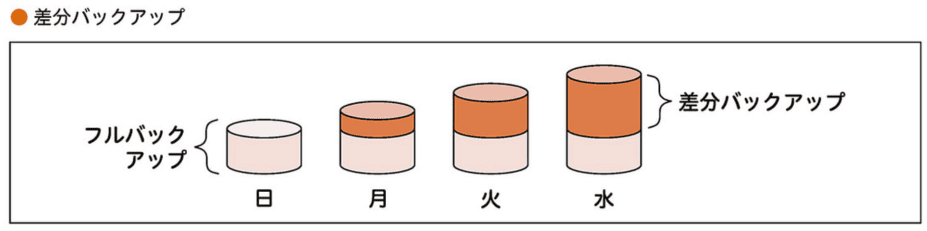
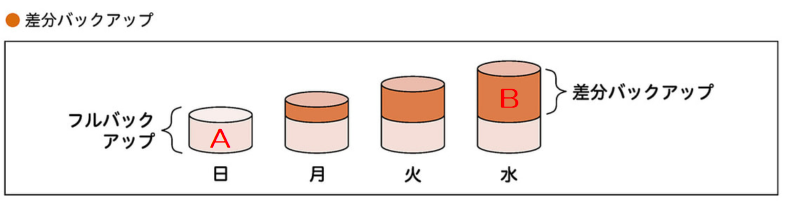
fe03更新

diff --git a/fe03.html b/fe03.html
@@ -122,12 +122,11 @@
                 category: "ソフトウェア",
                 question: "フルバックアップ以降、新たに追加されたデータのみをバックアップする方式",
                 image: "images/image037.png", 
-                choices: ["アーカイブ", "差分バックアップ", "増分バックアップ", "フルバックアップ"],
+                choices: ["アーカイブ", "差分バックアップ", "フルバックアップ", "増分バックアップ"],
                 correctIndex: 1,
-                explanation: "「差分バックアップ」とは、フルバックアップを取ったあと追加されたデータのみをバックアップする方式です。\n\n" + 
+                explanation: "「差分バックアップ」とは、フルバックアップ（全データのバックアップ）のあとに追加されたデータのみをバックアップする方式です。\n\n" + 
                     "バックアップするのはフルバックアップからの差分だけなので、バックアップにかかる時間は短いです。\n\n" +
-                    "反面、復旧にはフルバックアップと差分バックアップの2つのデータが必要になるので、復旧作業が煩雑になります。\n" + 
-                    "例えば、水曜日にデータベースを復旧する場合は、「日曜日のフルバックアップ」と「水曜日の差分バックアップ」の2つのデータを使って、システムを元の状態に戻します。",
+                    "反面、復旧にはフルバックアップと差分バックアップの2つのデータが必要になるので、復旧作業が煩雑になります。（下図AとB）\n",
                 explanationImage: "images/image036.png",
                 explanationUrl: "https://wa3.i-3-i.info/word11652.html"
             },
@@ -137,12 +136,11 @@
                 category: "ソフトウェア",
                 question: "前回のバックアップから新たに追加されたデータのみをバックアップする方式。",
                 image: "images/image038.png", 
-                choices: ["アーカイブ", "差分バックアップ", "増分バックアップ", "フルバックアップ"],
-                correctIndex: 2,
+                choices: ["アーカイブ", "差分バックアップ", "フルバックアップ", "増分バックアップ"],
+                correctIndex: 3,
                 explanation: "「増分バックアップ」とは、前回のバックアップから新たに追加されたデータのみをバックアップする方式です。\n\n" +
                     "バックアップするのは前回のバックアップからの追加分だけなので、バックアップにかかる時間は差分バックアップよりもさらに短いです。\n\n" +
-                    "反面、バックアップのデータが複数になるので、復旧作業が差分バックアップよりもさらに煩雑になります。\n" +
-                    "例えば、水曜日にデータベースの復旧を行う場合は、「日曜日のフルバックアップ」と「月」「火」「水」の増分バックアップの4つのデータを使って、システムを元の状態に戻さなければなりません。",
+                    "反面、バックアップのデータが複数になるので、復旧作業が差分バックアップよりもさらに煩雑になります。（下図 A+B+C+D）\n",
                 explanationImage: "images/image039.png",
                 explanationUrl: "https://wa3.i-3-i.info/word11651.html"
             },
@@ -170,17 +168,6 @@
                 explanationImage: "https://www.qbook.jp/column/assets_c/2026/11/73b10dd0ed28706eebe4baa27a005eca-thumb-autoxauto-q80.webp",
                 explanationUrl: "https://www.qbook.jp/column/2008.html"
             },
-            // Eclipse
-            {
-                category: "ソフトウェア",
-                question: "オープンソースの統合開発環境の一つで、Javaなどのアプリケーション開発のためのツールが一つにまとまったソフトウェア。",
-                image: "", 
-                choices: ["Eclipse", "Perl", "PHP", "Ruby"],
-                correctIndex: 0,
-                explanation: "「Eclipse」とは、Javaなどが開発できるオープンソースの統合開発環境です。\n\n統合開発環境（IDE:Integrated Development Environment）とは、テキストエディタやコンパイラ、テストツールなど、開発に必要なツールが1つにまとまったソフトウェアです。",
-                explanationImage: "https://ai-kenkyujo.com/wp-content/uploads/2025/03/java-eclipse10.png.webp",
-                explanationUrl: ""
-            },
             // フラッシュメモリ
             {
                 category: "ハードウェア",
@@ -188,7 +175,7 @@
                 image: "", 
                 choices: ["DRAM", "SRAM", "キャッシュメモリ", "フラッシュメモリ"],
                 correctIndex: 3,
-                explanation: "「フラッシュメモリ」とは、電気的にデータの消去や書き換えができるメモリです。\n\nUSBメモリやSSDに使われています。\n\nフラッシュメモリでは、データの消去は「ブロック」と呼ばれる、ビットをひとまとめにした単位で行います。",
+                explanation: "「フラッシュメモリ」とは、電気的にデータの消去や書き換えができるメモリです。USBメモリやSSDに使われています。\n\nフラッシュメモリでは、データの消去は「ブロック」と呼ばれる、ビットをひとまとめにした単位で行います。\n\nフラッシュメモリ↓",
                 explanationImage: "https://semi-journal.jp/wp-content/uploads/2022/02/flash-memory-1-768x215.jpg",
                 explanationUrl: "https://wa3.i-3-i.info/word11054.html"
             },
@@ -215,6 +202,10 @@
                 explanationUrl: "https://wa3.i-3-i.info/word11377.html"
             },
 
+            //-------------------------------------
+            //    マルチメディア
+            //-------------------------------------
+
             // アウトラインフォント
             {
                 category: "マルチメディア",
@@ -222,7 +213,7 @@
                 image: "", 
                 choices: ["アウトラインフォント", "等幅フォント", "ビットマップフォント", "プロポーショナルフォント"],
                 correctIndex: 0,
-                explanation: "「アウトラインフォント」とは、どんなに拡大·縮小しても、なめらかな曲線で表示されるフォントです。\n\n文字の形状を「座標値や方程式などのデータ」として保持しており、文字を拡大·縮小するたびに形状を再計算するので、ギザギザが目立つようなことはありません。\n\n一方、「ビットマップフォント」は、ドットの集まりで文字を表現しているため、拡大するとギザギザが目立ちます。",
+                explanation: "「アウトラインフォント」とは、どんなに拡大·縮小しても、なめらかな曲線で表示されるフォントです。\n\n文字の形状を座標や計算式として保持しており、文字を拡大·縮小するたびに形状を再計算するので、ギザギザが目立つようなことはありません。\n\n一方、「ビットマップフォント」は、ドットの集まりで文字を表現しているため、拡大するとギザギザが目立ちます。",
                 explanationImage: "images/image040.png",
                 explanationUrl: "https://wa3.i-3-i.info/word13827.html"
             },
@@ -245,7 +236,7 @@
                 image: "images/image042.png", 
                 choices: ["アンチエイリアシング", "シェーディング", "テクスチャマッピング", "バンプマッピング"],
                 correctIndex: 0,
-                explanation: "「アンチエイリアシング」（Anti-Aliasing）とは、画像処理の際に生じる線や輪郭のギザギザを目立たなくする手法です。",
+                explanation: "「アンチエイリアシング」（Anti-Aliasing）とは、輪郭のギザギザを目立たなくする手法です。",
                 explanationImage: "https://www.adobe.com/jp/creativecloud/roc/blog/photography/media_1bb1b34bbe67f42a4d676435b7166e95a3db397f7.jpg",
                 explanationUrl: "https://wa3.i-3-i.info/word111788.html"
             },
@@ -268,32 +259,37 @@
                 image: "", 
                 choices: ["H.264/MPEG-4 AVC", "JPEG", "MIDI", "MP3"],
                 correctIndex: 0,
-                explanation: "「H.264/MPEG-4 AVC」とは、動画を圧縮する技術です。\n\n動画の中で「変化があった部分(差分)」だけを保存することで、動画のファイルサイズを小さくします。\n\n現在は、ワンセグ放送、Blu-ray Disc、YouTubeなど、さまざまなメディアで使われています。",
-                explanationImage: "https://askmedia.co.jp/blog/wp-content/uploads/2026/11/h264_codec_guide.jpg",
+                explanation: "「H.264/MPEG-4 AVC」とは、動画を圧縮する技術です。\n\n動画の中で「変化があった部分」（差分）だけを保存することで、動画のファイルサイズを小さくします。\n\n現在は、ワンセグ放送、Blu-ray Disc、YouTubeなど、さまざまなメディアで使われています。",
+                explanationImage: "https://cdn-ak.f.st-hatena.com/images/fotolife/n/networkcamera/20181212/20181212235854.jpg",
                 explanationUrl: "https://askmedia.co.jp/blog/what-is-h264-video-codec-guide/"
             },
+
+            //-------------------------------------
+            //    データベース
+            //-------------------------------------
+
             // 関係データベース
-            {
-                category: "データベース",
-                question: "データを行と列の2次元の表形式で表すデータベース",
-                image: "", 
-                choices: ["オブジェクト型データベース", "階層型データベース", "関係データベース", "ネットワーク型データベース"],
-                correctIndex: 2,
-                explanation: "「関係データベース」とは、SQLの授業でみなさんがいつも使っている表形式のデータベースです。リレーショナルデータベースとも言います。",
-                explanationImage: "images/image044.png",
-                explanationUrl: "https://wa3.i-3-i.info/word15439.html"
-            },
+            // {
+            //     category: "データベース",
+            //     question: "データを行と列の2次元の表形式で表すデータベース",
+            //     image: "", 
+            //     choices: ["オブジェクト型データベース", "階層型データベース", "関係データベース", "ネットワーク型データベース"],
+            //     correctIndex: 2,
+            //     explanation: "「関係データベース」とは、SQLの授業でみなさんがいつも使っている表形式のデータベースです。リレーショナルデータベースとも言います。",
+            //     explanationImage: "images/image044.png",
+            //     explanationUrl: "https://wa3.i-3-i.info/word15439.html"
+            // },
             // 主キー
-            {
-                category: "データベース",
-                question: "リレーショナルデータベースの表において、テーブルの中のレコードを一意に識別するための列",
-                image: "", 
-                choices: ["インデックス", "外部キー", "候補キー", "主キー"],
-                correctIndex: 3,
-                explanation: "「主キー」とは、テーブルの中から特定のレコードを識別するための列です。例えば「学籍番号」や「社員ID」などです。\n\n表のデータを確実に一つに特定するため、主キーになるには次の2つの条件を満たす必要があります。\n\n(1) 重複する値がないこと（一意性）\n(2) データが空（NULL）でないこと（NOT NULL制約）」",
-                explanationImage: "https://medium-company.com/wp-content/uploads/2021/01/primarykey1.png",
-                explanationUrl: "https://wa3.i-3-i.info/word1991.html"
-            },
+            // {
+            //     category: "データベース",
+            //     question: "リレーショナルデータベースの表において、テーブルの中のレコードを一意に識別するための列",
+            //     image: "", 
+            //     choices: ["インデックス", "外部キー", "候補キー", "主キー"],
+            //     correctIndex: 3,
+            //     explanation: "「主キー」とは、テーブルの中から特定のレコードを識別するための列です。例えば「学籍番号」や「社員ID」などです。\n\n表のデータを確実に一つに特定するため、主キーになるには次の2つの条件を満たす必要があります。\n\n(1) 重複する値がないこと（一意性）\n(2) データが空（NULL）でないこと（NOT NULL制約）",
+            //     explanationImage: "https://medium-company.com/wp-content/uploads/2021/01/primarykey1.png",
+            //     explanationUrl: "https://wa3.i-3-i.info/word1991.html"
+            // },
 
             // 外部キー
             {
@@ -324,7 +320,7 @@
                 image: "", 
                 choices: ["結合", "射影", "選択", "和"],
                 correctIndex: 1,
-                explanation: "「射影」とは、表から特定の列のみ取り出すことです。\n\n一方、特定の行（レコード）を取り出す操作を「選択」といいます。",
+                explanation: "「射影」とは、表から特定の「列」のみ取り出すことです。\n\n一方、特定の「行」（レコード）を取り出す操作は「選択」といいます。\n「射影」と「選択」は区別できるようにしておきましょう。",
                 explanationImage: "images/image049.png",
                 explanationUrl: "https://wa3.i-3-i.info/word11647.html"
             },
@@ -339,7 +335,211 @@
                 explanationImage: "images/image050.png",
                 explanationUrl: "https://wa3.i-3-i.info/word11906.html"
             },
+            // 原子性
+            {
+                category: "データベース",
+                question: "DBMSのACID特性の一つで、トランザクション内の処理が「すべて実行される」か、「すべてが取り消される」かのどちらかの結果になること",
+                image: "", 
+                choices: ["原子性(Atomicity)", "一貫性(Consistency)", "独立性(Isolation)", "耐久性(Durability)"],
+                correctIndex: 0,
+                explanation: "「原子性」とは、トランザクション内の処理が「すべて実行される」か、「すべてが取り消される」かのどちらかの結果になることです。つまり、中途半端な状態にならないようにします。",
+                explanationImage: "images/image051.png",
+                explanationUrl: "https://wa3.i-3-i.info/word110351.html"
+            },
 
+            // ログファイル
+            {
+                category: "データベース",
+                question: "データベースの更新前や更新後の値を書き出して、データベースの更新記録として保存するファイル",
+                image: "", 
+                choices: ["ダンプファイル", "チェックポイントファイル", "バックアップファイル", "ログファイル"],
+                correctIndex: 3,
+                explanation: "「ログファイル」とは、データベースを更新する前後の状態を保存したファイルです。\n\nDBを更新する前の状態を保存したログを「更新前ログファイル」、更新した後の状態を保存したログを「更新後ログファイル」といいます。\n\nデータベースに障害が発生したときは、このログファイルを使ってデータベースを復旧させることができます。",
+                explanationImage: "images/image052.png",
+                explanationUrl: ""
+            },
+            // ロールバック
+            {
+                category: "ネットワーク",
+                question: "データベース更新の途中で障害が発生した際に、更新前ログファイルを使用してデータベースを更新前の状態に戻すこと。",
+                image: "", 
+                choices: ["コミット", "チェックポイント", "ロールバック", "ロールフォワード"],
+                correctIndex: 2,
+                explanation: "「ロールバック」とは、データベースを更新している途中でエラーが発生した際に、データベースを更新前の状態に戻すことです。\n\nロールバックでは、障害が発生したら更新「前」ログファイルを使ってデータベースを復元します。",
+                explanationImage: "images/image063.png",
+                explanationUrl: "https://wa3.i-3-i.info/word143.html"
+            },
+            // 排他制御
+            {
+                category: "データベース",
+                question: "複数の人が同じデータを同時に更新しようとした場合に、データベースをロックするなどしてデータに矛盾が生じないようにする機能",
+                image: "", 
+                choices: ["再編成", "正規化", "整合性制約", "排他制御"],
+                correctIndex: 3,
+                explanation: "「排他制御」とは、複数の人が同じデータを同時に更新しようとした場合に、データに不整合が起きるのを防ぐ機能です。\n\n例えばデータにロックをかけて、同時に一人しか書き込めないようにします。",
+                explanationImage: "https://medium-company.com/wp-content/uploads/2021/03/lock1.png",
+                explanationUrl: "https://wa3.i-3-i.info/word19090.html"
+            },
+
+            //-------------------------------------
+            //    ネットワーク
+            //-------------------------------------
+
+            // CRC方式
+            {
+                category: "ネットワーク",
+                question: "データをあらかじめ決められた生成多項式でわり算し、その余りをチェックデータとしてデータに付け加えて送ることで、ビット誤りを検出する方式",
+                image: "", 
+                choices: ["CRC方式", "垂直パリティチェック方式", "水平パリティチェック方式", "ハミング符号方式"],
+                correctIndex: 0,
+                explanation: "「CRC方式」とは、データをあらかじめ決められた生成多項式でわり算し、その余りをチェックデータとしてデータに付け加えて送る方式です。受信側でも同じ計算をして、計算結果がチェックデータと同じになれば誤りがないことになります。\n\n" + 
+                "少し難しい説明ですが、安心してください。\n基本情報技術者試験では、上記の「多項式でわり算し、その余りをチェックデータとして付け加える」という、CRC方式の特徴しか出題されません。具体的な計算方法は出題されません。\n\n" + 
+                "「多項式」や「生成多項式」というキーワードが出たら「CRC方式!」が答えです。",
+                explanationImage: "https://utataneblog760.com/wp-content/uploads/2026/08/556-1.jpg",
+                explanationUrl: "https://utataneblog760.com/556crc/"
+            },
+
+            // ポート番号
+            {
+                category: "ネットワーク",
+                question: "ネットワークにおいて、通信相手のアプリケーションを識別するための番号",
+                image: "", 
+                choices: ["MACアドレス", "シーケンス番号", "プロトコル番号", "ポート番号"],
+                correctIndex: 3,
+                explanation: "「ポート番号」とは、通信相手のアプリケーションを識別するための番号です。アプリケーションとは、具体的には「ブラウザ」や「メールソフト」などです。\n\nIPアドレスはコンピュータを識別する番号ですが、コンピュータを特定しただけでは、コンピュータ上で動いているどのアプリケーションソフトウェアと通信すればよいか分かりません。例えば、ブラウザとメールソフトを同時に起動している場合、IPアドレスだけではどちらのアプリケーションソフトウェアと通信したらよいか判断できません。\n\nそこで必要になるのがポート番号です。\n\nそれぞれのアプリケーションソフトウェアに個別に割り当てられているポート番号を使って、通信相手となるアプリケーションソフトウェアを特定します。\n\nちなみに、ポート番号「80番はWebの通信」「25番はメール送信」のように代表的な番号は決まっています。",
+                explanationImage: "images/image053.png",
+                explanationUrl: "https://wa3.i-3-i.info/word171.html"
+            },
+            // MACアドレスの構成
+            {
+                category: "ネットワーク",
+                question: "MACアドレスの構成として正しいものはどれか。",
+                image: "", 
+                choices: ["エリアID　+　IPアドレス", 
+                          "エリアID　+　固有製造番号", 
+                          "ベンダID　+　IPアドレス", 
+                          "ベンダID　+　固有製造番号"],
+                correctIndex: 3,
+                explanation: "「MACアドレス」は、48ビットの番号で、前半24ビットが「ベンダID」、後半24ビットが「固有製造番号」になります。\n\nちなみに、MACアドレスとは、ネットワーク機器ごとに割り当てられている固有の番号です。\n\nIPアドレスは「最終的な通信相手」を特定する番号なのに対して、MACアドレスは「次の通信相手」を特定する番号です。\n\n仮にネットワークを電車の路線と考えるならば、MACアドレスは乗り換え駅の名前、IPアドレスは最終目的地の駅の名前です。\n\n",
+                explanationImage: "images/image054.png",
+                explanationUrl: "https://medium-company.com/mac%E3%82%A2%E3%83%89%E3%83%AC%E3%82%B9%E3%81%A8%E3%81%AF/"
+            },
+            // IPv4, IPv6
+            {
+                category: "ネットワーク",
+                question: "IPアドレスのIPv4とIPv6はそれぞれ何ビットか",
+                image: "", 
+                choices: ["IPv4=32ビット、IPv6=48ビット", 
+                          "IPv4=32ビット、IPv6=128ビット", 
+                          "IPv4=48ビット、IPv6=48ビット", 
+                          "IPv4=48ビット、IPv6=128ビット"],
+                correctIndex: 1,
+                explanation: "IPアドレスのバージョン4であるIPv4は32ビット、IPv6は128ビットです。\n\nIPv4は32ビットなので43億個（2の32乗）のIPアドレスが設定できますが、世界の人口よりも少ないため足りなくなってしまいました。\nそこで「IPアドレスの枯渇問題」を解決するために登場したのがIPv6です。\n\nIPv6は128ビットで構成されているので、IPアドレスの総数は340兆の1兆倍の1兆倍（2の128乗）になります。この数は、地球上に転がっている石よりも多く、ほぼ無限大といえます。",
+                explanationImage: "images/image064.png",
+                explanationUrl: "https://wa3.i-3-i.info/word11735.html"
+            },
+            // DHCP
+            {
+                category: "ネットワーク",
+                question: "IPアドレスを動的に割り当てるプロトコル",
+                image: "", 
+                choices: ["ARP", "DHCP", "RIP", "SMTP"],
+                correctIndex: 1,
+                explanation: "「DHCP」とは、IPアドレスを自動的に割り当てるプロトコルです。\n\nコンピュータが通信するには各コンピュータにIPアドレスを設定する必要がありますが、コンピュータが数十台、数百台となると大変です。DHCPはこのIPアドレスの設定を自動化してくれます。",
+                explanationImage: "images/image055.png",
+                explanationUrl: "https://wa3.i-3-i.info/word1959.html"
+            },
+            // NAT
+            {
+                category: "ネットワーク",
+                question: "プライベートIPアドレスとグローバルIPアドレスを相互に変換する機能",
+                image: "", 
+                choices: ["DHCP", "DNS", "NAT", "VPN"],
+                correctIndex: 2,
+                explanation: "「NAT」（Network Address Translation：ネットワークアドレス変換）とは、「プライベートIPアドレス」を「グローバルIPアドレス」へ変換する技術です。\n\nインターネットに接続するにはグローバルIPアドレスが必要なのですが、IPv4ではアドレスが43億個しかないので、すべてのコンピュータにグローバルIPアドレスを割り当てることができません。そこで、NATの技術を使って、インターネットへの接続が必要ないときはプライベートIPアドレスを使い、必要になったときのみ、グローバルIPアドレスに変換することでIPv4の不足問題を解決しています。",
+                explanationImage: "images/image056.png",
+                explanationUrl: "https://wa3.i-3-i.info/word11978.html"
+            },
+            // NAPT
+            {
+                category: "ネットワーク",
+                question: "プライベートIPアドレスの複数の端末が,一つのグローバルIPアドレスを使ってインターネットに接続する仕組み。",
+                image: "", 
+                choices: ["DHCP", "DNS", "RADIUS", "NAPT"],
+                correctIndex: 3,
+                explanation: "「NAPT」とは、「複数のプライベートIPアドレス」を、1つのグローバルIPアドレスに変換する技術です。\n\nNAPTを利用すると、プライベートIPアドレスを持つ複数のコンピュータが、同時にインターネットにアクセスできます。\n\n先ほどのNATも、プライベートIPアドレスをグローバルIPアドレスに変換するという点ではNAPTと似た技術ですが、NATは「1つの」プライベートIPアドレスを1つのグローバルIPアドレスに変換することしかできません。この点がNAPTと大きく異なるので注意してください。",
+                explanationImage: "images/image057.png",
+                explanationUrl: "https://wa3.i-3-i.info/word11979.html"
+            },
+            // DNS
+            // {
+            //     category: "ネットワーク",
+            //     question: "ドメイン名やホスト名などとIPアドレスとを対応付ける仕組み。",
+            //     image: "", 
+            //     choices: ["DHCP", "DNS", "VPN", "NAPT"],
+            //     correctIndex: 1,
+            //     explanation: "「DNS」とは、ドメイン名をIPアドレスに変換するシステムです。\n\nコンピュータが通信するにはIPアドレスが必要ですが、「13.112.248.159」のような数字だけのIPアドレスは人間にとって覚えにくいです。そこでDNSという仕組みによってドメイン名をIPアドレスに変換することで、「www.example.co.jp」のような名前でWebサイト等にアクセスできるようにしています。\n\n基本情報技術者試験では「ドメイン名とIPアドレスを対応させる仕組み」という文章で出題されることがあります。",
+
+            //     explanationImage: "images/image058.png",
+            //     explanationUrl: "https://wa3.i-3-i.info/word1287.html"
+            // },
+
+            // NTP
+            // {
+            //     category: "ネットワーク",
+            //     question: "時刻合わせをするプロトコル",
+            //     image: "", 
+            //     choices: ["ARP", "ICMP", "NTP", "RIP"],
+            //     correctIndex: 2,
+            //     explanation: "「NTP」（Network Time Protocol）とは、コンピュータの時刻を合わせるためのプロトコルです。",
+            //     explanationImage: "images/image059.png",
+            //     explanationUrl: "https://wa3.i-3-i.info/word12071.html"
+            // },
+            // MIME
+            {
+                category: "ネットワーク",
+                question: "メールでテキストだけでなく、音声、画像なども扱えるようにしたものはどれか",
+                image: "", 
+                choices: ["HTML", "MHS", "MIME", "SMTP"],
+                correctIndex: 2,
+                explanation: "「MIME」（Multipurpose Internet Mail Extensions）とは、電子メールで文字以外の画像や音声、動画といった、さまざまな形式のデータを転送するための規格です。\n\n実はメールはもともとアメリカで生まれたこともあり、半角英数字しか送ることができません。\n\nそこで画像や動画などの文字以外のデータは、わざわざ一度文字コードに変換してから送信しています。このとき使われる規格がMIMEです。",
+                explanationImage: "",
+                explanationUrl: "https://wa3.i-3-i.info/word11118.html"
+            },
+
+            // リピーター
+            {
+                category: "ネットワーク",
+                question: "伝送距離を延長するために減衰した信号を増幅する装置",
+                image: "", 
+                choices: ["ルーター", "アクセスポイント", "スイッチングハブ", "リピーター"],
+                correctIndex: 3,
+                explanation: "「リピーター」とは、長いケーブルを通って弱くなってしまった信号を増幅・成形する装置です。",
+                explanationImage: "images/image062.png",
+                explanationUrl: "https://wa3.i-3-i.info/word12044.html"
+            },
+            // スイッチングハブ
+            {
+                category: "ネットワーク",
+                question: "受信したパケットを、宛先MACアドレスが存在するLANポートだけに転送する装置",
+                image: "", 
+                choices: ["ルーター", "アクセスポイント", "スイッチングハブ", "リピーター"],
+                correctIndex: 2,
+                explanation: "「スイッチングハブ」とは、宛先MACアドレスを見て、そのMACアドレスが存在するポートだけに転送する装置です。\n\n「レイヤー2スイッチ」ともいいます。",
+                explanationImage: "images/image061.png",
+                explanationUrl: "https://wa3.i-3-i.info/word1956.html"
+            },
+            // ルーター
+            {
+                category: "ネットワーク",
+                question: "IPアドレスを見てルーティング（経路選択）を行う装置",
+                image: "", 
+                choices: ["ルーター", "アクセスポイント", "スイッチングハブ", "リピーター"],
+                correctIndex: 0,
+                explanation: "「ルーター」（Router）とは、宛先IPアドレスを読み取り、データを送り出す先を決定する装置です。",
+                explanationImage: "images/image060.png",
+                explanationUrl: "https://wa3.i-3-i.info/word1393.html"
+            },
 
 
         ];
